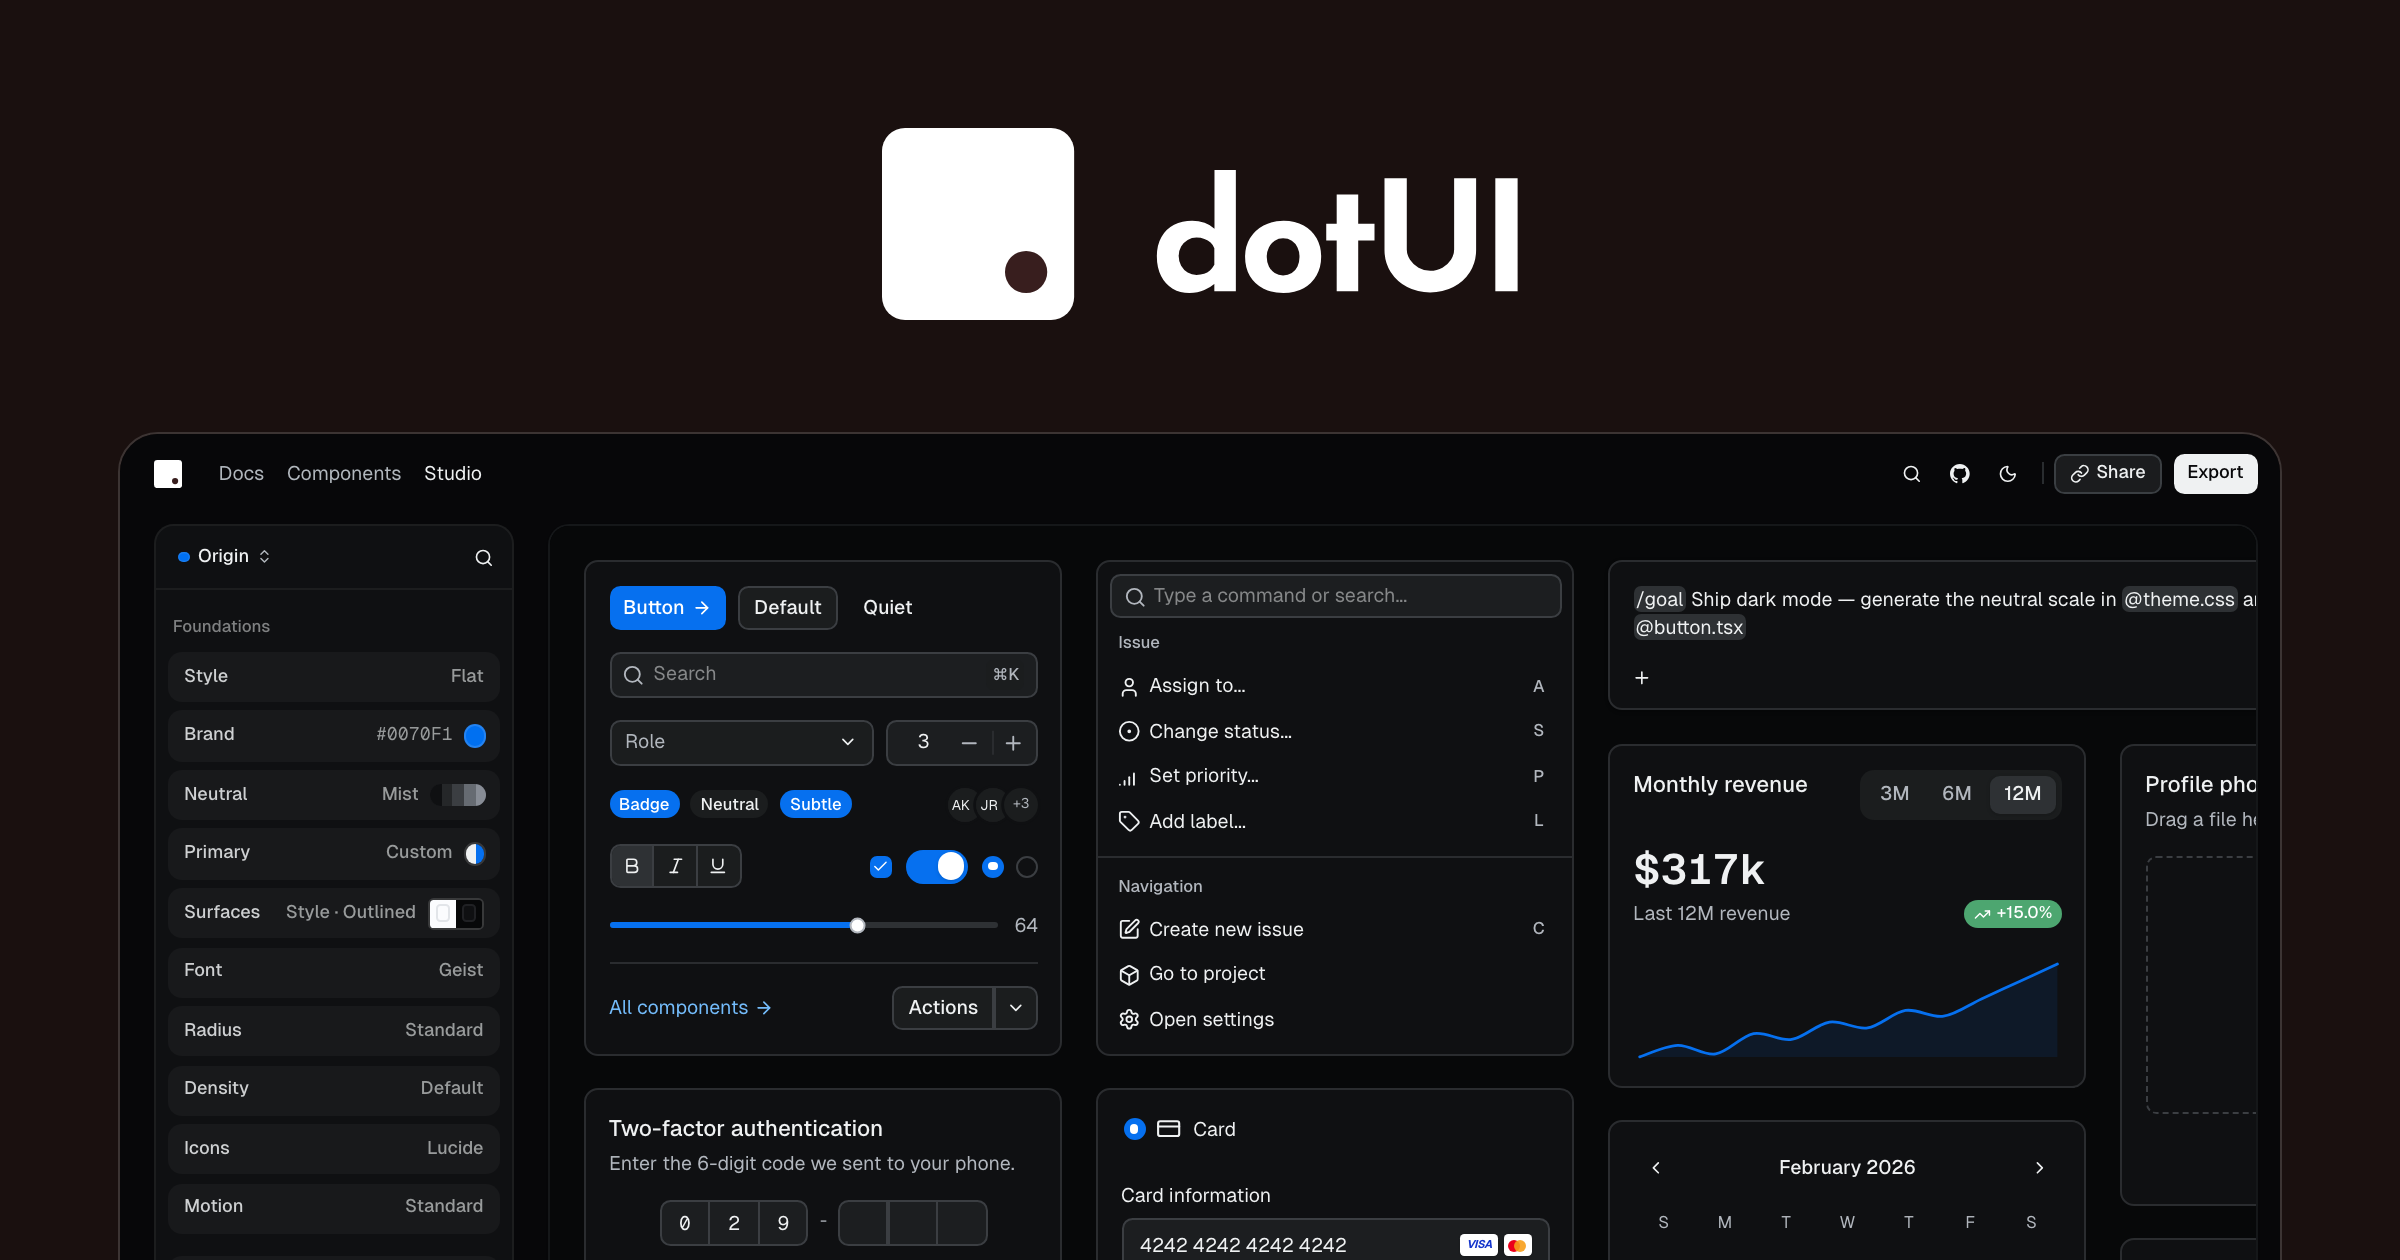
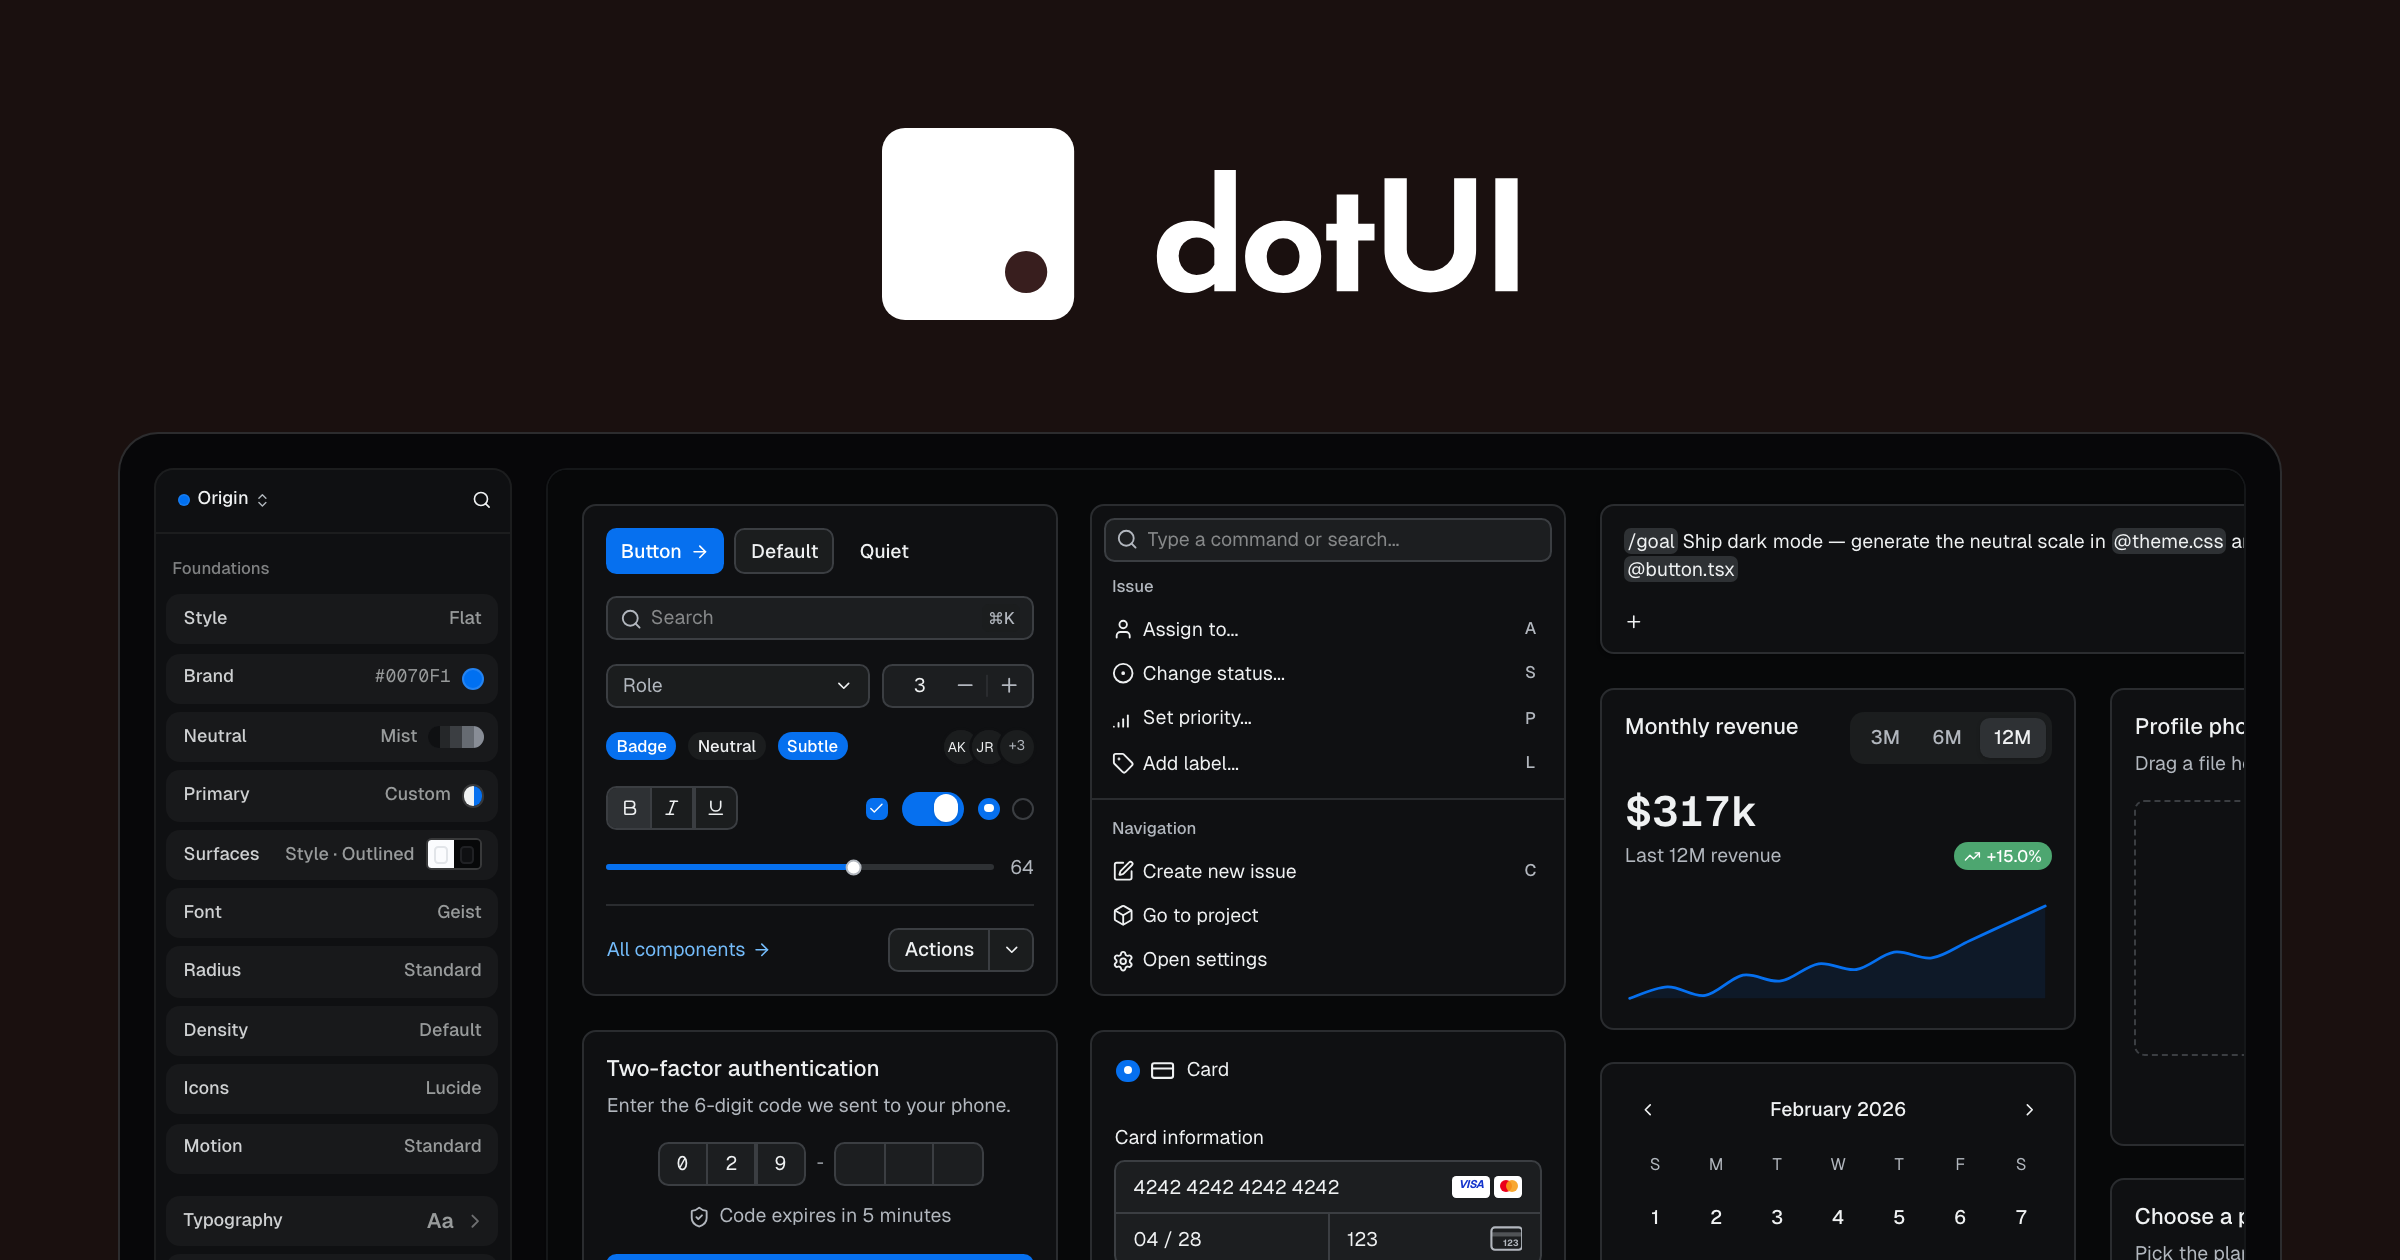
feat(brand): crop the cover to the studio panel and preview

diff --git a/www/src/modules/marketing/cover.tsx b/www/src/modules/marketing/cover.tsx
@@ -1,32 +1,59 @@
 "use client"
 
-import { useEffect, useRef } from "react"
+import { useEffect, useRef, useState } from "react"
 import type { RefObject } from "react"
 
-// The studio renders at a desktop size, scaled into a 1080px wide window.
+// The studio renders at a desktop size; its panel and preview are cropped
+// out of it and scaled into a 1080px wide window.
 const STUDIO = { width: 1536, height: 960 }
-const ZOOM = 1080 / STUDIO.width
+const WIDTH = 1080
+// Around the crop, in studio pixels: the studio's own gutter.
+const GUTTER = 24
 
 /* The social cover: the GitHub social preview and the site's share image.
    `scripts/capture-cover.mts` screenshots it at each size it ships in. */
 export function Cover() {
   const studio = useRef<HTMLIFrameElement>(null)
-  useReadySignal(studio)
+  const crop = useCrop(studio)
+  const zoom = WIDTH / (crop ? crop.width + 2 * GUTTER : STUDIO.width)
   return (
     <div className="flex h-svh w-svw flex-col items-center overflow-hidden bg-[#1a100f] pt-16">
       <img src="/brand/dotui-wordmark-white.svg" alt="dotUI" className="h-24" />
       {/* Taller than the canvas: the bottom edge crops it. */}
-      <div className="mt-14 shrink-0 overflow-hidden rounded-2xl border border-white/15">
-        <iframe
-          ref={studio}
-          src="/studio?preset=origin&mode=dark"
-          title="dotUI Studio"
-          style={{ ...STUDIO, zoom: ZOOM }}
-          className="block"
-        />
+      <div
+        className="mt-14 shrink-0 overflow-hidden rounded-2xl border border-white/15"
+        style={{ background: crop?.background, padding: crop && GUTTER * zoom }}
+      >
+        <div
+          className="overflow-hidden"
+          style={
+            crop && { width: crop.width * zoom, height: crop.height * zoom }
+          }
+        >
+          <iframe
+            ref={studio}
+            src="/studio?preset=origin&mode=dark"
+            title="dotUI Studio"
+            style={{
+              ...STUDIO,
+              zoom,
+              marginLeft: crop && -crop.x,
+              marginTop: crop && -crop.y,
+            }}
+            className="block"
+          />
+        </div>
       </div>
     </div>
   )
+}
+
+type Crop = {
+  x: number
+  y: number
+  width: number
+  height: number
+  background: string
 }
 
 const sleep = (ms: number) => new Promise((resolve) => setTimeout(resolve, ms))
@@ -37,17 +64,25 @@ const documents = (win: Window): Document[] => [
   ...Array.from(win.frames, documents).flat(),
 ]
 
-/** Marks the page ready to screenshot once the studio's preview is in. */
-function useReadySignal(studio: RefObject<HTMLIFrameElement | null>) {
+/** Once the studio's preview is in, crops the studio to the row holding the
+ *  panel and the preview, then marks the page ready to screenshot. */
+function useCrop(studio: RefObject<HTMLIFrameElement | null>) {
+  const [crop, setCrop] = useState<Crop>()
   useEffect(() => {
     let cancelled = false
     void (async () => {
+      let row: HTMLElement | null | undefined
       while (
-        !studio.current?.contentDocument?.querySelector("[data-preview-loaded]")
+        !(row = studio.current?.contentDocument?.querySelector(
+          "[data-preview-loaded]",
+        )?.parentElement)
       ) {
         if (cancelled) return
         await sleep(100)
       }
+      const { x, y, width, height } = row.getBoundingClientRect()
+      const { backgroundColor } = getComputedStyle(row.ownerDocument.body)
+      setCrop({ x, y, width, height, background: backgroundColor })
       await Promise.all(documents(window).map((doc) => doc.fonts.ready))
       // The preview's spinner fades out.
       await sleep(1000)
@@ -58,4 +93,5 @@ function useReadySignal(studio: RefObject<HTMLIFrameElement | null>) {
       delete document.documentElement.dataset.coverReady
     }
   }, [studio])
+  return crop
 }
